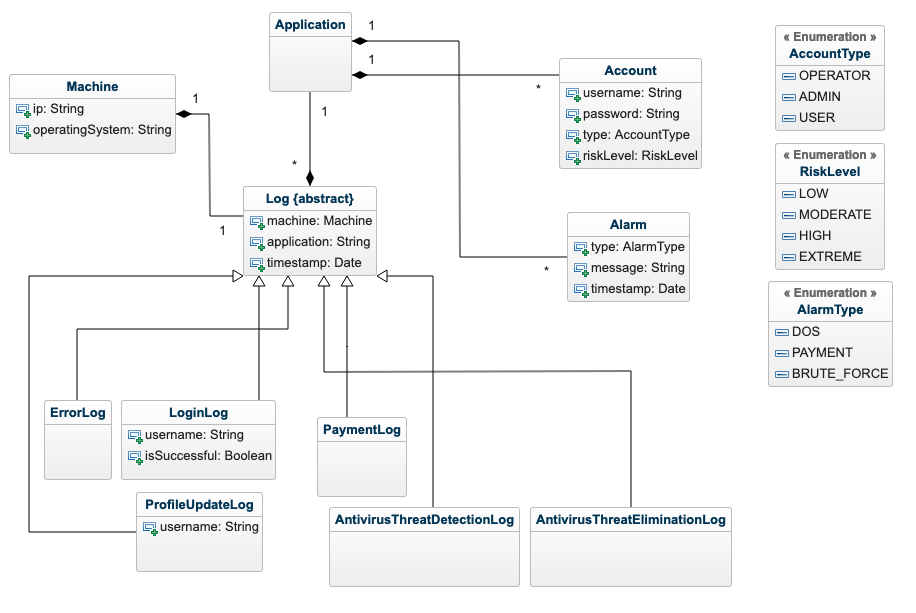
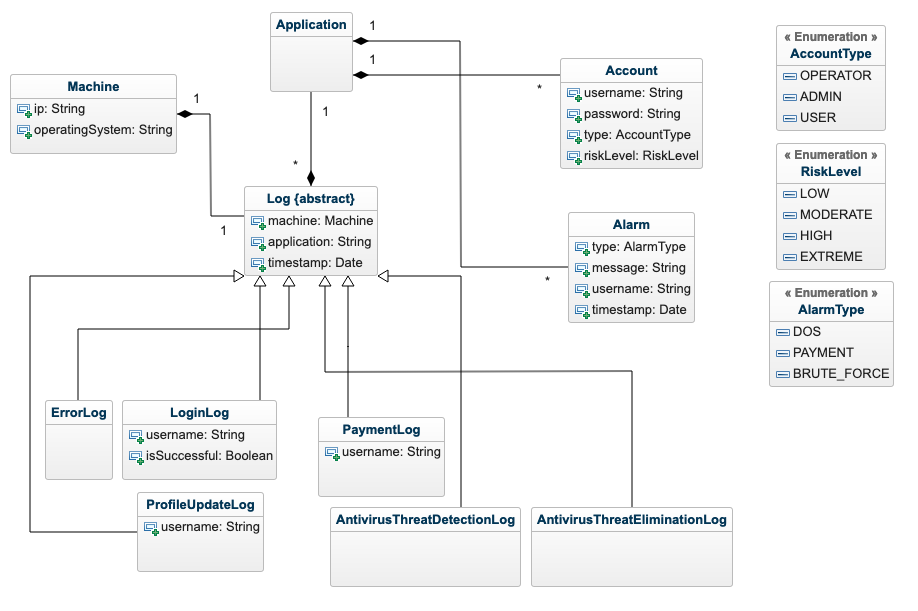
Update models

diff --git a/SIEMCenter/src/main/java/com/securityoperationscenter/siemcenter/model/Alarm.java b/SIEMCenter/src/main/java/com/securityoperationscenter/siemcenter/model/Alarm.java
@@ -1,16 +1,18 @@
 package com.securityoperationscenter.siemcenter.model;
 
-import java.util.Date;
+import java.time.LocalDateTime;
 
 public class Alarm {
 
     private AlarmType type;
     private String message;
-    private Date timestamp;
+    private String username;
+    private LocalDateTime timestamp;
 
-    public Alarm(AlarmType type, String message, Date timestamp) {
+    public Alarm(AlarmType type, String message, String username, LocalDateTime timestamp) {
         this.type = type;
         this.message = message;
+        this.username = username;
         this.timestamp = timestamp;
     }
 
@@ -30,11 +32,19 @@ public class Alarm {
         this.message = message;
     }
 
-    public Date getTimestamp() {
+    public String getUsername() {
+        return username;
+    }
+
+    public void setUsername(String username) {
+        this.username = username;
+    }
+
+    public LocalDateTime getTimestamp() {
         return timestamp;
     }
 
-    public void setTimestamp(Date timestamp) {
+    public void setTimestamp(LocalDateTime timestamp) {
         this.timestamp = timestamp;
     }
 }

diff --git a/SIEMCenter/src/main/java/com/securityoperationscenter/siemcenter/model/PaymentLog.java b/SIEMCenter/src/main/java/com/securityoperationscenter/siemcenter/model/PaymentLog.java
@@ -4,7 +4,19 @@ import java.time.LocalDateTime;
 
 public class PaymentLog extends Log {
 
-    public PaymentLog(LocalDateTime timestamp, Machine machine, String application) {
+    private String username;
+
+    public PaymentLog(LocalDateTime timestamp, Machine machine, String application, String username) {
         super(timestamp, machine, application);
+
+        this.username = username;
+    }
+
+    public String getUsername() {
+        return username;
+    }
+
+    public void setUsername(String username) {
+        this.username = username;
     }
 }
